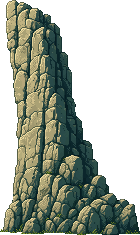
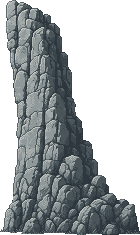
完成Scene2场景收尾与山体调色

diff --git a/assets/scenes/scene2/SPEC.md b/assets/scenes/scene2/SPEC.md
@@ -54,20 +54,20 @@
 
 | 优先级 | 文件名 | 建议尺寸 | 透明 | 内容与接口要求 |
 |---|---|---:|:---:|---|
-| Done | `scene2_sky.png` | 576×324 | 否 | 从暂存区归档；以 Nearest 拉伸到 1920×1080，并保留舞台震屏余量 |
-| Done | `scene2_mountain_left.png` | 122×194 | 是 | 从新 `leftmountain.png` 清除浅色背景并裁切；左侧瀑布岩壁和桃枝框景 |
-| Done | `scene2_mountain_right.png` | 140×235 | 是 | 从 `rightmountain.png` 清除深色外底并保留内部岩缝；右侧桃树后山壁 |
-| Done | `scene2_blossom_tree.png` | 208×125 | 是 | 从新 `blossomtree.png` 清除白底并裁切；右侧角色后方桃树 |
-| Done | `scene2_stone_bridge.png` | 237×55 | 是 | 从替换后的 `stone bridge.png` 提取有色前景，删除外部黑色描边，并以 3px 闭合保护桥石内部黑色阴影；正式战斗站立层 |
-| Done | `scene2_mid_mountain.png` | 1672×752 | 是 | 从 `midmountain.png` 清除烘焙棋盘格并裁切；中远景峡谷 |
-| Done | `scene2_far_mountain.png` | 1608×508 | 是 | 从 `farmountain.png` 清除烘焙棋盘格并裁切；最远景青蓝山影 |
-| Done | `scene2_cloud_bank.png` | 1521×1019 | 是 | 从 `cloud2.png` 按真实 Alpha 裁切；天空最远层横向云海，低对比、低透明度 |
-| Done | `scene2_cloud_tower.png` | 1513×486 | 是 | 从 `cloud.png` 按真实 Alpha 裁切；远山与中山之间的云峰层，避免遮挡战斗主体 |
+| Done | `scene2_sky.png` | 576×324 | 否 | 原图归档于 `assets/art_src/scenes/scene2/scene2_sky.png`；以 Nearest 拉伸到 1920×1080，并保留舞台震屏余量 |
+| Done | `scene2_mountain_left.png` | 122×194 | 是 | 从同名归档原图清除浅色背景并裁切；左侧瀑布岩壁和桃枝框景 |
+| Done | `scene2_mountain_right.png` | 140×235 | 是 | 从同名归档原图清除深色外底并保留内部岩缝；右侧桃树后山壁 |
+| Done | `scene2_blossom_tree.png` | 208×125 | 是 | 从同名归档原图清除白底并裁切；右侧角色后方桃树 |
+| Done | `scene2_stone_bridge.png` | 237×55 | 是 | 从同名归档原图提取有色前景，删除外部黑色描边，并以 3px 闭合保护桥石内部黑色阴影；正式战斗站立层 |
+| Done | `scene2_mid_mountain.png` | 1672×752 | 是 | 从同名归档原图清除烘焙棋盘格并裁切；中远景峡谷 |
+| Done | `scene2_far_mountain.png` | 1608×508 | 是 | 从同名归档原图清除烘焙棋盘格并裁切；最远景青蓝山影 |
+| Done | `scene2_cloud_bank.png` | 1521×1019 | 是 | 从同名归档原图按真实 Alpha 裁切；天空最远层横向云海，低对比、低透明度 |
+| Done | `scene2_cloud_tower.png` | 1513×486 | 是 | 从同名归档原图按真实 Alpha 裁切；远山与中山之间的云峰层，避免遮挡战斗主体 |
 | P1 | `scene2_waterfall_mask_left.png` | 720×1216 | 是 | 可选的单瀑布轮廓蒙版：白/灰水体、透明背景，顶部和底部均接画外/河面；只定义连续水帘边缘，不要山、桥、雾或前景河面 |
 | Done | `scene2_petal_atlas.png` | 64×16 | 是 | 4 个 16×16 单格桃瓣姿态，轮廓清晰、灰粉低饱和；由可复现 Godot 工具生成，不带发光和阴影底色 |
 | Optional | `scene2_water_ripple_atlas.png` | 256×32 | 是 | 后续如需纯手绘替换，可提供 4 帧×64×32 横向水线图集；当前 P2 已由 8fps 程序短泡沫簇完成岸线节奏 |
 
-9 项主构图素材已经接入；`assets/import/` 中的新原图保持不变。后续单瀑布蒙版、花瓣和水线图集属于增强层，当前代码版本在它们导入前可独立运行。
+9 项主构图素材已经接入；确认采用的原图统一按成品名归档在 `assets/art_src/scenes/scene2/`，`assets/import/` 只保留尚未确认的候选素材。后续单瀑布蒙版、花瓣和水线图集属于增强层，当前代码版本在它们导入前可独立运行。
 
 ### 新环境素材运行时规范
 
